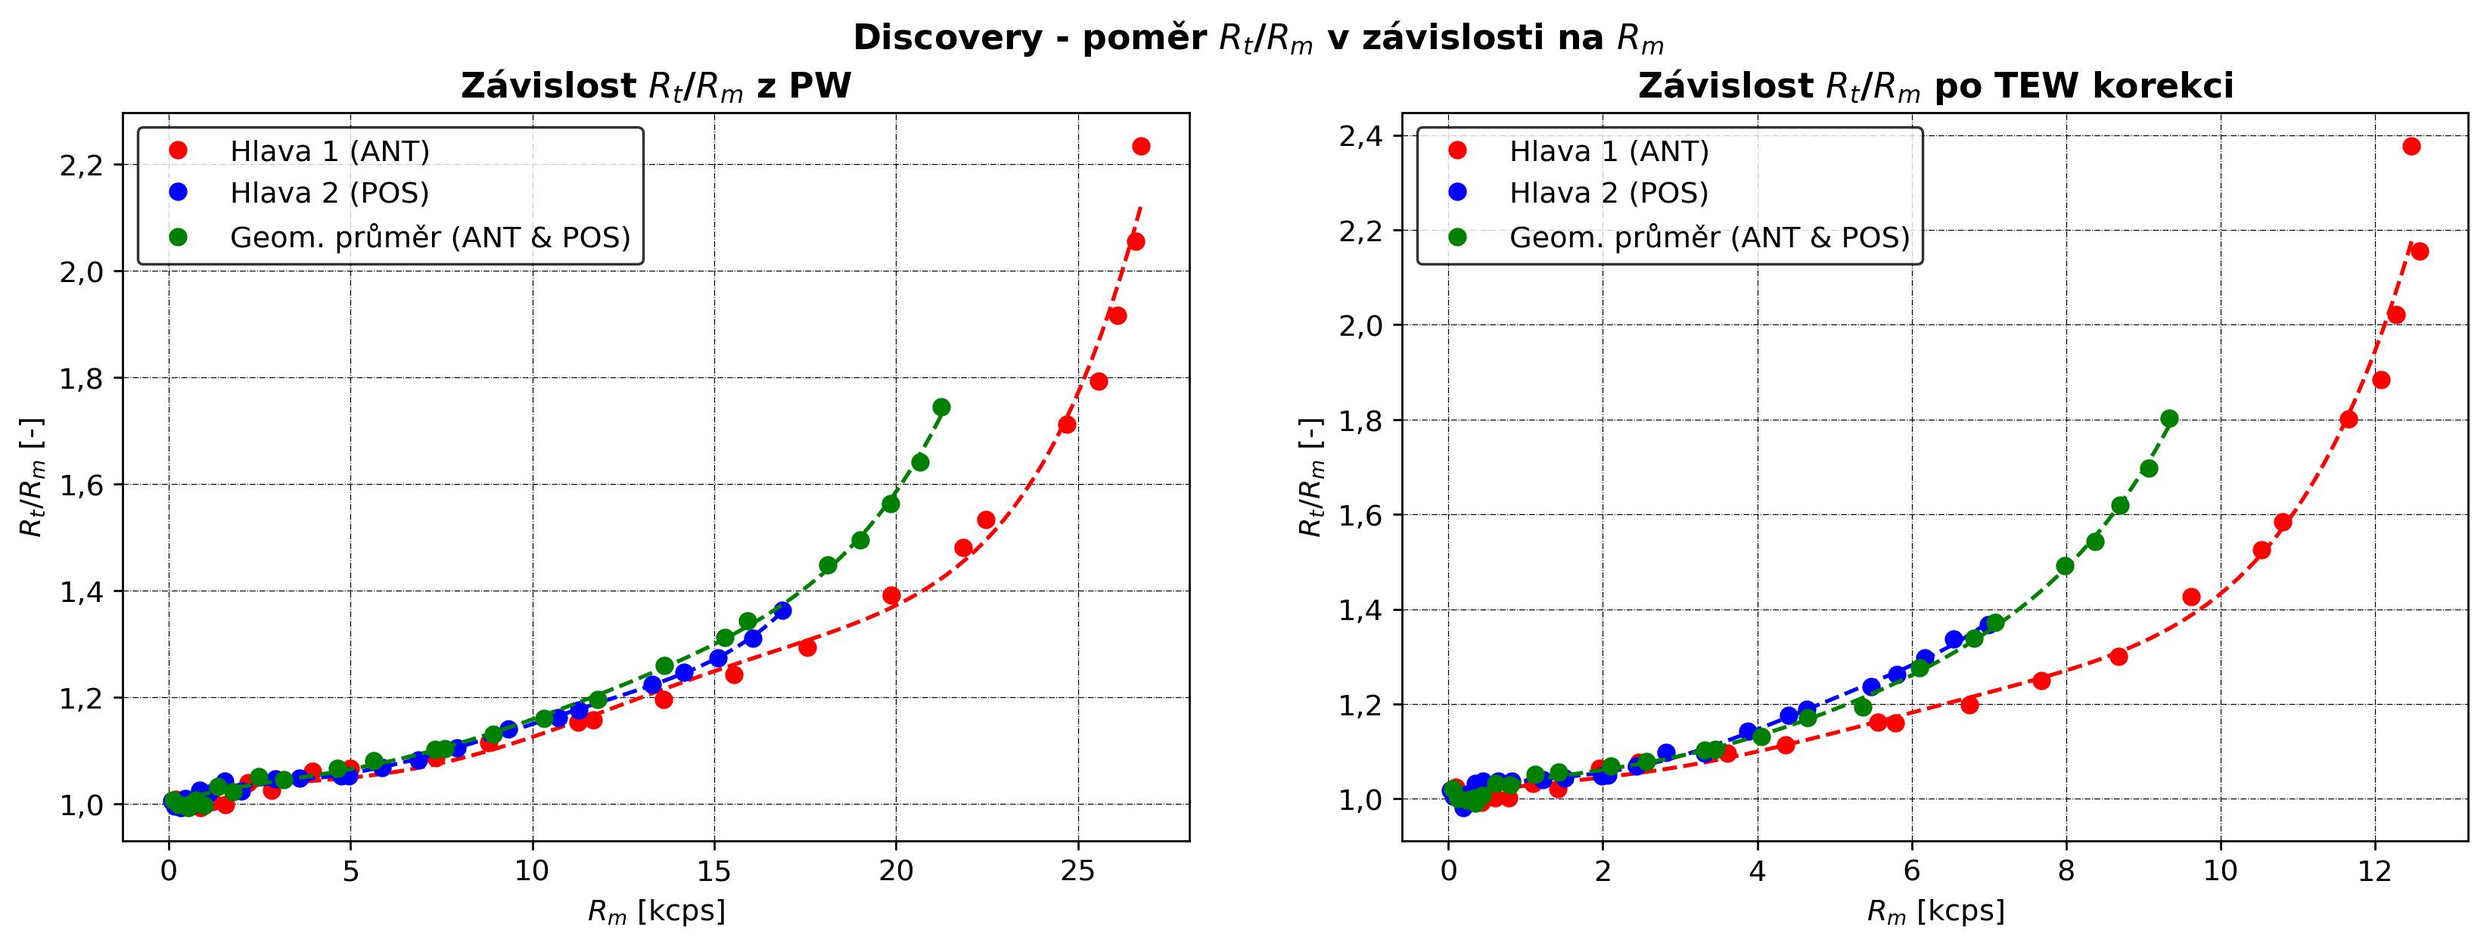
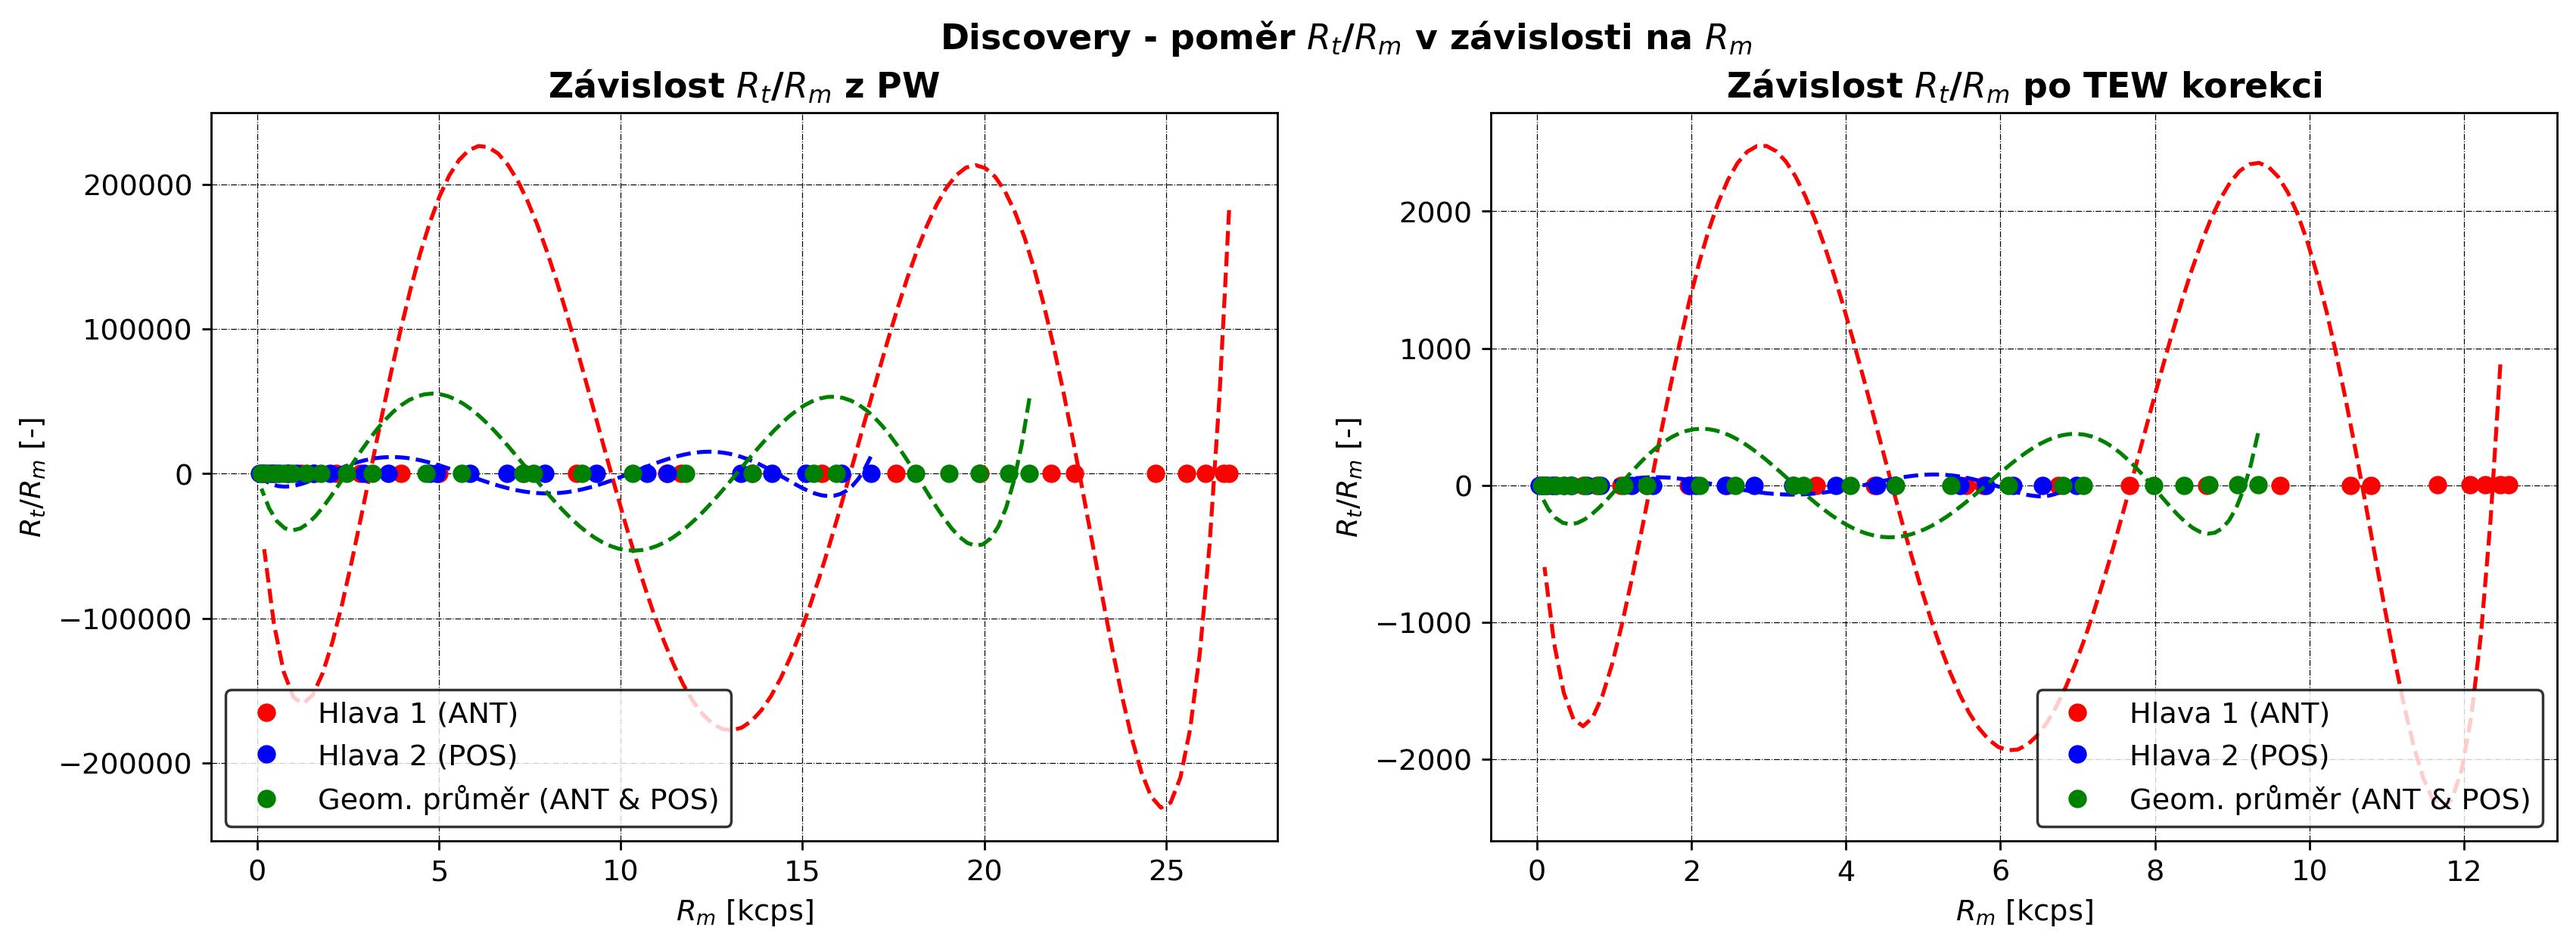
zmena fitu

diff --git a/fitovani.py b/fitovani.py
@@ -7,8 +7,8 @@ def linearni_fce(x, a, b):
 def kvadraticka_fce(x, a, b):
     return a * x**2 + b * x + 1
 
-def polynom_6_fce(x, a, b, c, d, e):
-    return  x**6 + a * x**5 + b * x**4 + c * x**3 + d*x**2 + e*x + 1
+def polynom_6_fce(x, a, b, c, d, e, f):
+    return  a*x**6 + b * x**5 + c * x**4 + d * x**3 + e*x**2 + f*x + 1
 
 def linearni_fit(x_a_y_data):
     aktivity = np.array(x_a_y_data[0])
@@ -84,7 +84,7 @@ def pol_6_stupne_fit(x_a_y_data):
     x = np.array(x_a_y_data[0])
     y = np.array(x_a_y_data[1])
     model = Model(polynom_6_fce)
-    params = model.make_params(a=1, b=1, c=1, d=1, e=1)
+    params = model.make_params(a=1, b=1, c=1, d=1, e=1, f=1)
     result = model.fit(y, params, x=x)
 
     # Extracting the best-fit values and their errors
@@ -93,17 +93,19 @@ def pol_6_stupne_fit(x_a_y_data):
     c = result.params['c'].value
     d = result.params['d'].value
     e = result.params['e'].value
+    f = result.params['f'].value
 
     a_err = result.params['a'].stderr
     b_err = result.params['b'].stderr
     c_err = result.params['c'].stderr
     d_err = result.params['d'].stderr
     e_err = result.params['e'].stderr
+    f_err = result.params['f'].stderr
 
     
     # Return as a numpy array
     # return np.array([[a, b, c], [a_err, b_err, c_err]]) 
-    return np.array([[a, b, c, d, e], [a_err, b_err, c_err, d_err, e_err]])
+    return np.array([[a, b, c, d, e, f], [a_err, b_err, c_err, d_err, e_err, f_err]])
 
 
 
